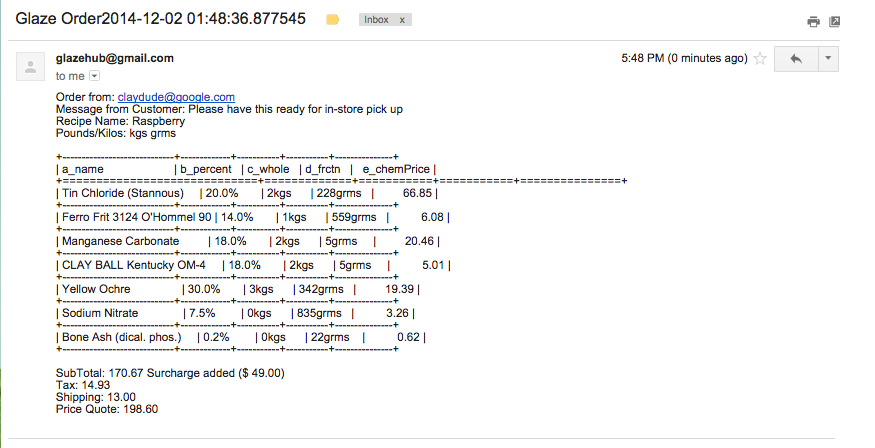
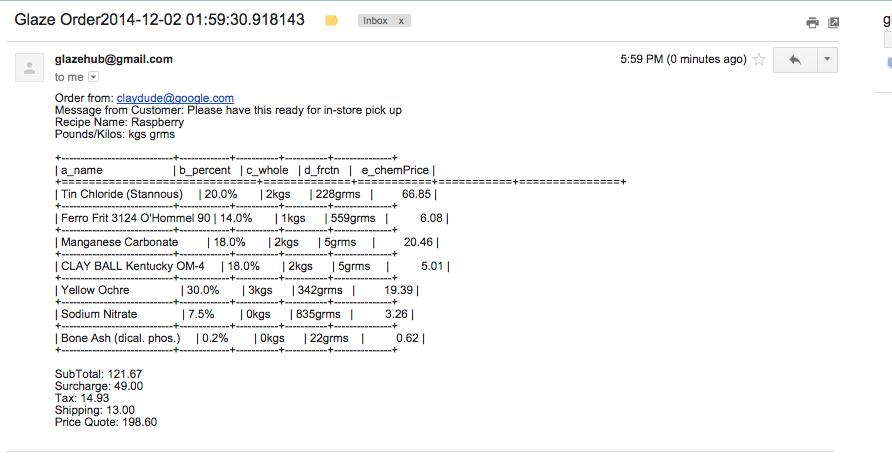
recalculated price_quote, updated screen caps
Had to show surcharge explicitly in email

diff --git a/glazehub.py b/glazehub.py
@@ -410,7 +410,7 @@ def batchSizeChange(userViewID, recipeName):
         shipping = pricecompute.getShipping(sizeflt)
 
     session["shipping"] = shipping
-    session["pre-tax-cost"] = round((sumprice + surcharge), 2)
+    session["pre-tax-cost"] = round(sumprice, 2)
 
     if sizeflt == 0:
         price_quote = 0
@@ -524,7 +524,7 @@ def emailCP(userViewID, recipeName, batchSize):
     user_id = userViewID
     recipeName = recipeName
     unitSys = session["unitSys"]
-    subtotal = session["pre-tax-cost"]
+    subtotal = session["pre-tax-cost"] + session["surcharge"]
     shipping_cost = session["shipping"]
     msgSent = False
 
@@ -583,7 +583,7 @@ def emailCPSend(userViewID, recipeName, batchSize):
     subtotal = round(session["pre-tax-cost"], 2)
     shipping = round(session["shipping"], 2)
 
-    price_quote = tax + subtotal + shipping
+    price_quote = tax + subtotal + shipping + surcharge
 
     order_time = str(datetime.datetime.utcnow())
 
@@ -597,8 +597,8 @@ def emailCPSend(userViewID, recipeName, batchSize):
            "Recipe Name: " + recipeName + "\n" +\
            "Pounds/Kilos: " + wholesys + " " + frctnsys + "\n\n" +\
            table + "\n\n" +\
-           "SubTotal: %.2f " % subtotal + "Surcharge added ($ %.2f" \
-           % surcharge + ")\n" +\
+           "SubTotal: %.2f " % subtotal + "\n" + \
+           "Surcharge: %.2f" % surcharge + "\n" +\
            "Tax: %.2f" % tax + "\n" + \
            "Shipping: %.2f" % shipping + "\n"\
            "Price Quote: %.2f" % price_quote
